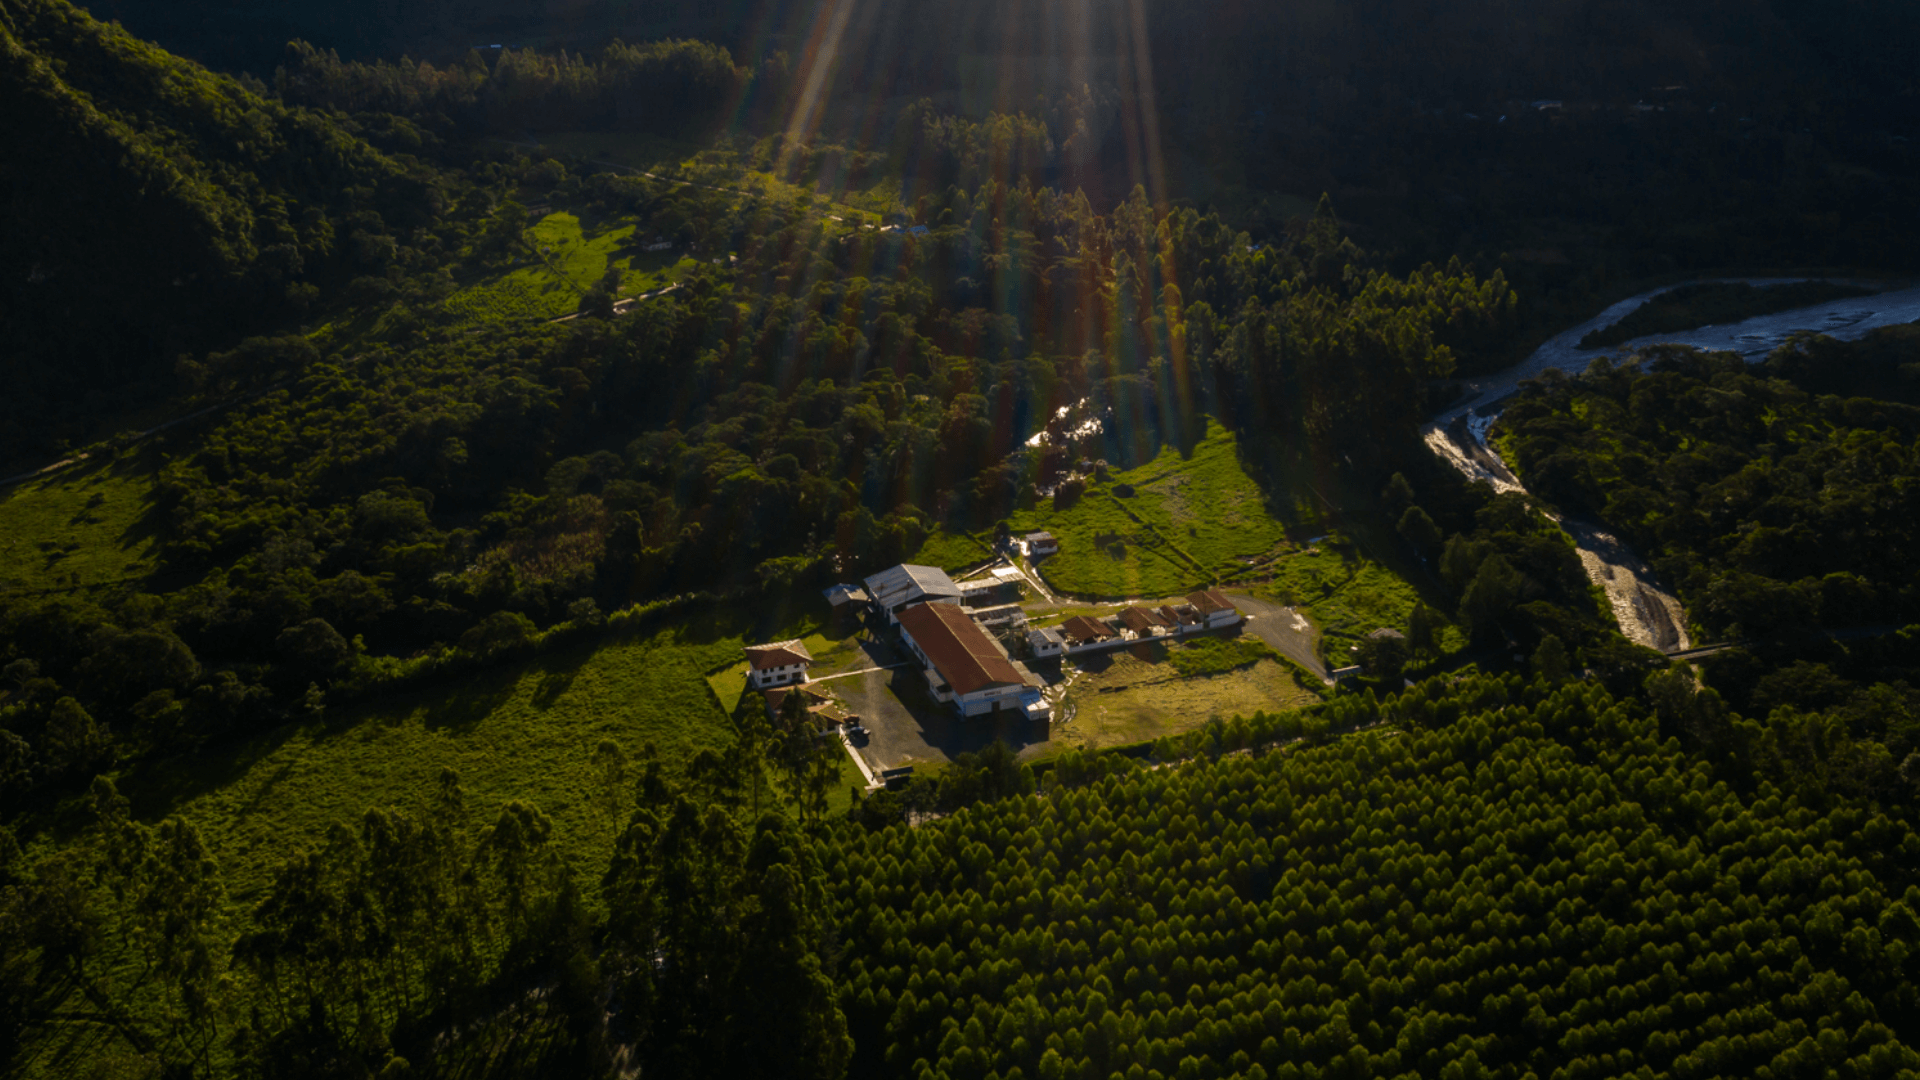
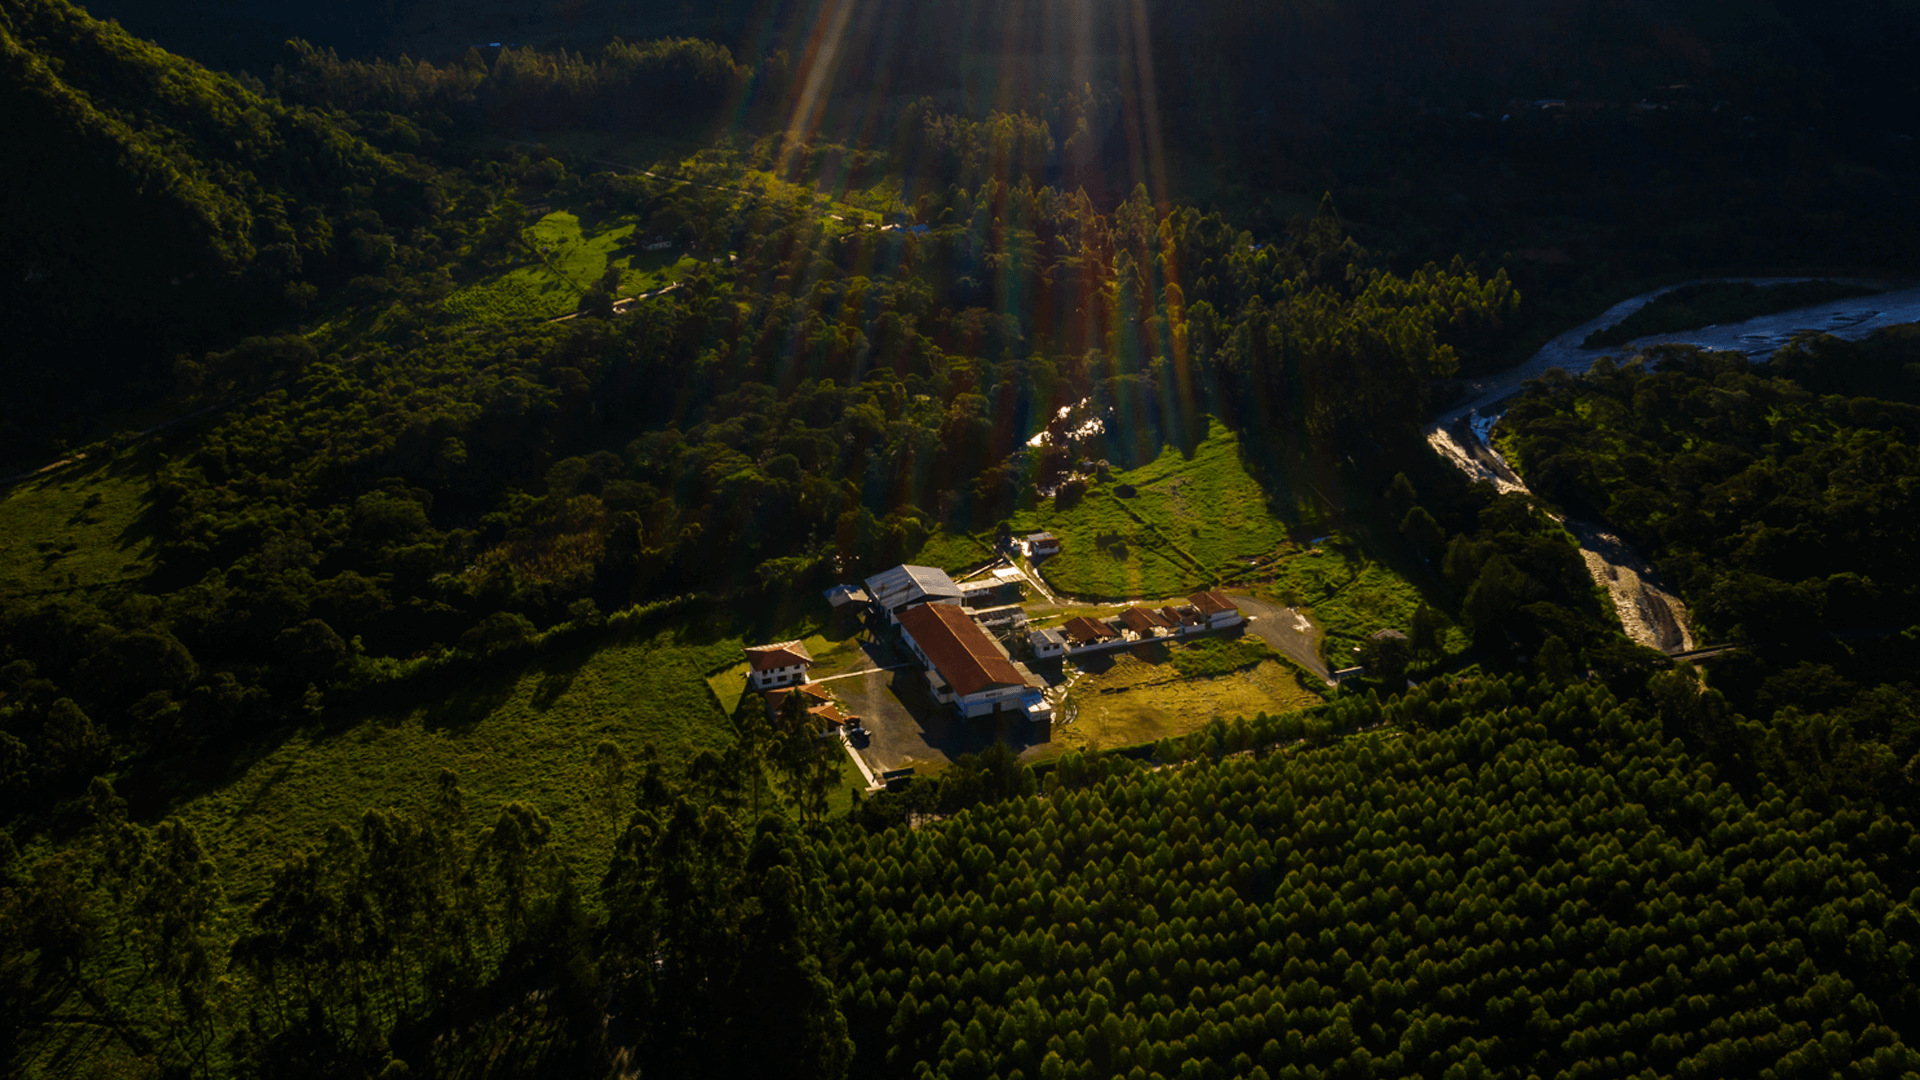
fondos

diff --git a/src/css/carnes.css b/src/css/carnes.css
@@ -20,7 +20,7 @@ main {
     width: 30%;
     height: 100vh;
     position: relative;
-    background: linear-gradient( rgba(0, 0, 0, 0.71), rgba(0, 0, 0, 0.62)), url(../assets/_B9A2037.jpg);
+    background: linear-gradient( rgba(0, 0, 0, 0.71), rgba(0, 0, 0, 0.62)), url(../assets/fondo-carne.png);
     background-position-x: center;
     background-size: cover;
 }

diff --git a/src/css/enciclopedia.css b/src/css/enciclopedia.css
@@ -9,7 +9,7 @@ html {
 }
 
 main {
-    background: linear-gradient( rgba(0, 0, 0, 0.51), rgba(0, 0, 0, 0.52)), url(../assets/_B9A0616.jpg);
+    background: linear-gradient( rgba(0, 0, 0, 0.51), rgba(0, 0, 0, 0.52)), url(../assets/fondo-enciclopedia.png);
     background-size: cover;
     background-repeat: no-repeat;
     background-position: center;

diff --git a/src/css/contact.css b/src/css/contact.css
@@ -18,7 +18,7 @@ html {
 }
 
 main {
-    background-image: linear-gradient( rgba(0, 0, 0, 0.30), rgba(0, 0, 0, 0.32)), url(../assets/_B9A9808.jpg);
+    background-image: linear-gradient( rgba(0, 0, 0, 0.30), rgba(0, 0, 0, 0.32)), url(../assets/fondo-contacto.png);
     background-size: cover;
     background-position: center;
 }

diff --git a/src/css/alimentacion.css b/src/css/alimentacion.css
@@ -9,7 +9,7 @@ html {
 }
 
 main {
-    background: linear-gradient( rgba(0, 0, 0, 0.51), rgba(0, 0, 0, 0.52)), url(../assets/_B9A0616.jpg);
+    background: linear-gradient( rgba(0, 0, 0, 0.51), rgba(0, 0, 0, 0.52)), url(../assets/fondo-enciclopedia.png);
     background-size: cover;
     background-position: center center;
 }

diff --git a/src/css/blog.css b/src/css/blog.css
@@ -1,5 +1,5 @@
 main {
-    background-image: linear-gradient( rgba(0, 0, 0, 0.60), rgba(0, 0, 0, 0.62)), url(../assets/_B9A0774.jpg);
+    background-image: linear-gradient( rgba(0, 0, 0, 0.60), rgba(0, 0, 0, 0.62)), url(../assets/fondo-blog.png);
     background-size: cover;
     height: 100vh;
     width: 130%;
